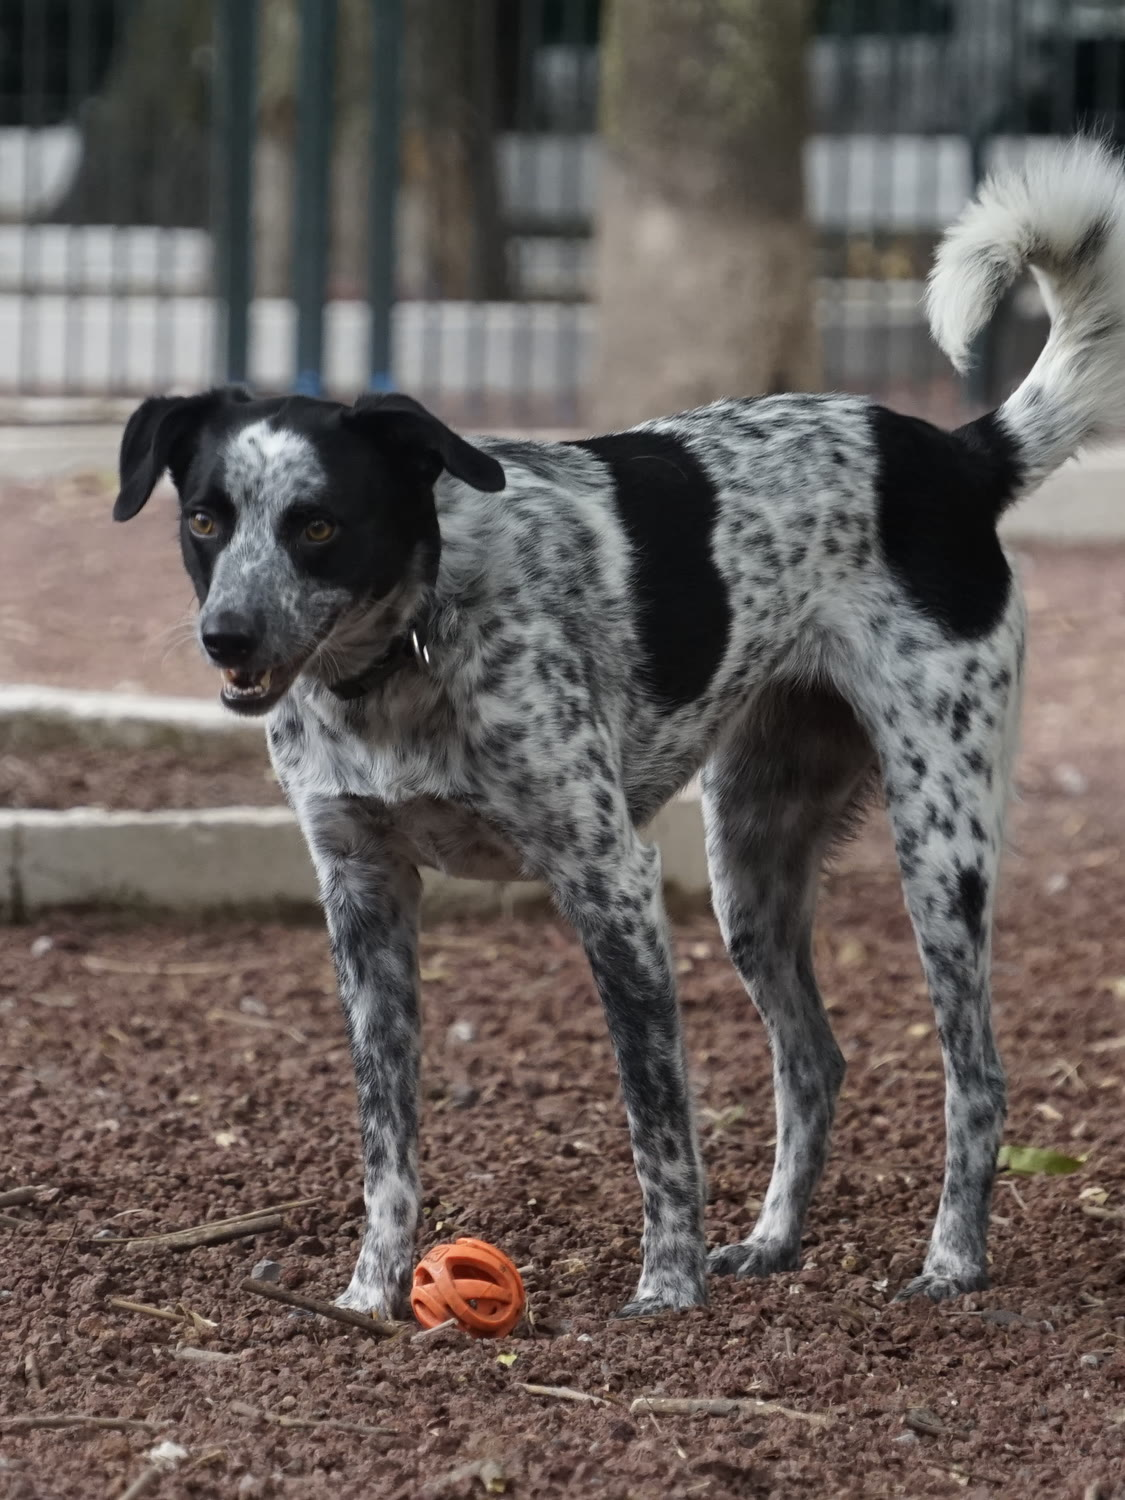
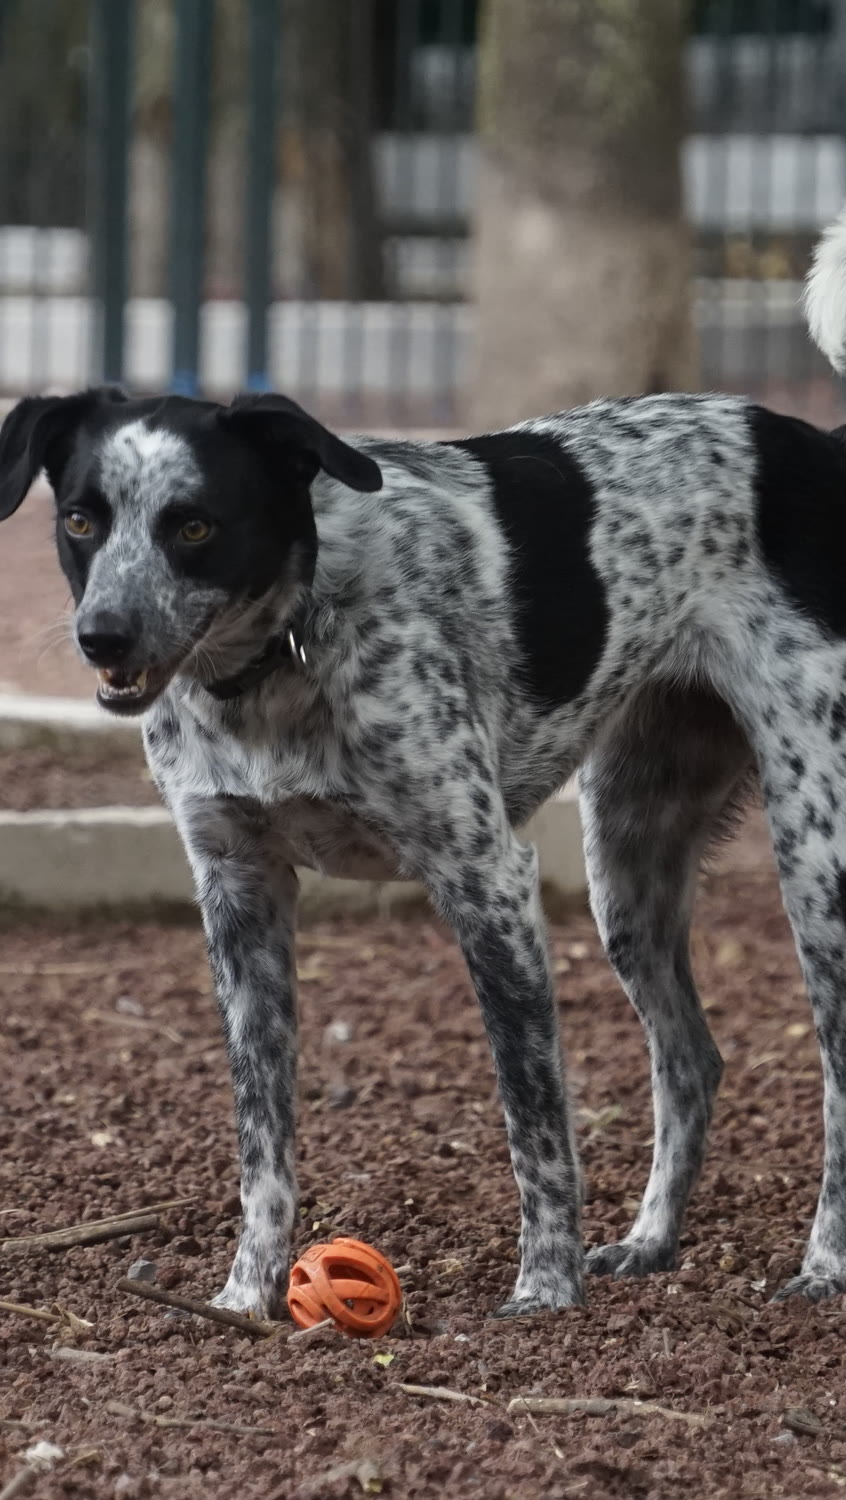
Narrow Fiel session cards to match the 9:16 Clásica photo
The frames now share _DSC1456's 9:16 ratio at the same height, so the
cards are a quarter narrower. Esencial and Legado are re-cropped to
match.

diff --git a/brands/fiel/index.html b/brands/fiel/index.html
@@ -27,7 +27,7 @@
 
   <link rel="stylesheet" href="../../css/site.css?v=1.0.7">
   <link rel="stylesheet" href="../../css/layout.css?v=1.0.7">
-  <link rel="stylesheet" href="../../css/brand.css?v=1.0.9">
+  <link rel="stylesheet" href="../../css/brand.css?v=1.0.10">
   <script src="../../js/parallax.js" defer></script>
   <script src="../../js/protect.js" defer></script>
 </head>
@@ -123,7 +123,7 @@
 
       <div class="sessions__grid">
         <article class="session">
-          <div class="plate__frame"><img draggable="false" src="../../images/brands/fiel.esmx/web/sesion-esencial.jpg?v=1.0.10" alt="Perro blanco con manchas negras junto a su pelota naranja: ejemplo de sesión Esencial" loading="lazy"></div>
+          <div class="plate__frame"><img draggable="false" src="../../images/brands/fiel.esmx/web/sesion-esencial.jpg?v=1.0.11" alt="Perro blanco con manchas negras junto a su pelota naranja: ejemplo de sesión Esencial" loading="lazy"></div>
           <div class="session__body">
             <p class="eyebrow session__tag">La más elegida</p>
             <h3 class="subhead">Esencial</h3>
@@ -160,7 +160,7 @@
         </article>
 
         <article class="session">
-          <div class="plate__frame"><img draggable="false" src="../../images/brands/fiel.esmx/web/sesion-legado.jpg?v=1.0.10" alt="Perra de pelo crema con arnés azul, de pie en el parque: ejemplo de sesión Legado" loading="lazy"></div>
+          <div class="plate__frame"><img draggable="false" src="../../images/brands/fiel.esmx/web/sesion-legado.jpg?v=1.0.11" alt="Perra de pelo crema con arnés azul, de pie en el parque: ejemplo de sesión Legado" loading="lazy"></div>
           <div class="session__body">
             <p class="eyebrow session__tag">La favorita</p>
             <h3 class="subhead">Legado</h3>

diff --git a/css/brand.css b/css/brand.css
@@ -39,8 +39,10 @@
 }
 .session--featured { border-top: 3px solid var(--amphora-rust); }
 .session .plate__frame { aspect-ratio: 4 / 3; }
-.sessions--portrait .session .plate__frame { aspect-ratio: 3 / 4; }
-/* A taller photo shows whole: full height, margins at the sides. */
+/* Portrait sessions: cards narrowed to 3/4 so the frame keeps its height
+   and matches the 9:16 photographs exactly. */
+.sessions--portrait .sessions__grid { width: calc(75% + 0.5 * clamp(1rem, 2.5vw, 2.5rem)); }
+.sessions--portrait .session .plate__frame { aspect-ratio: 9 / 16; }
 .session .plate__frame--whole img { object-fit: contain; transform: none; }
 .session__body {
   display: flex;
@@ -145,6 +147,7 @@
   .sessions, .ledger, .download { padding-inline: max(16px, 6%); }
   .sessions__head, .download__inner { margin-left: 0; }
   .sessions__grid { grid-template-columns: 1fr; max-width: 34rem; }
+  .sessions--portrait .sessions__grid { width: auto; max-width: 25.5rem; }
   .ledger, .download__inner { grid-template-columns: 1fr; }
 }
 
